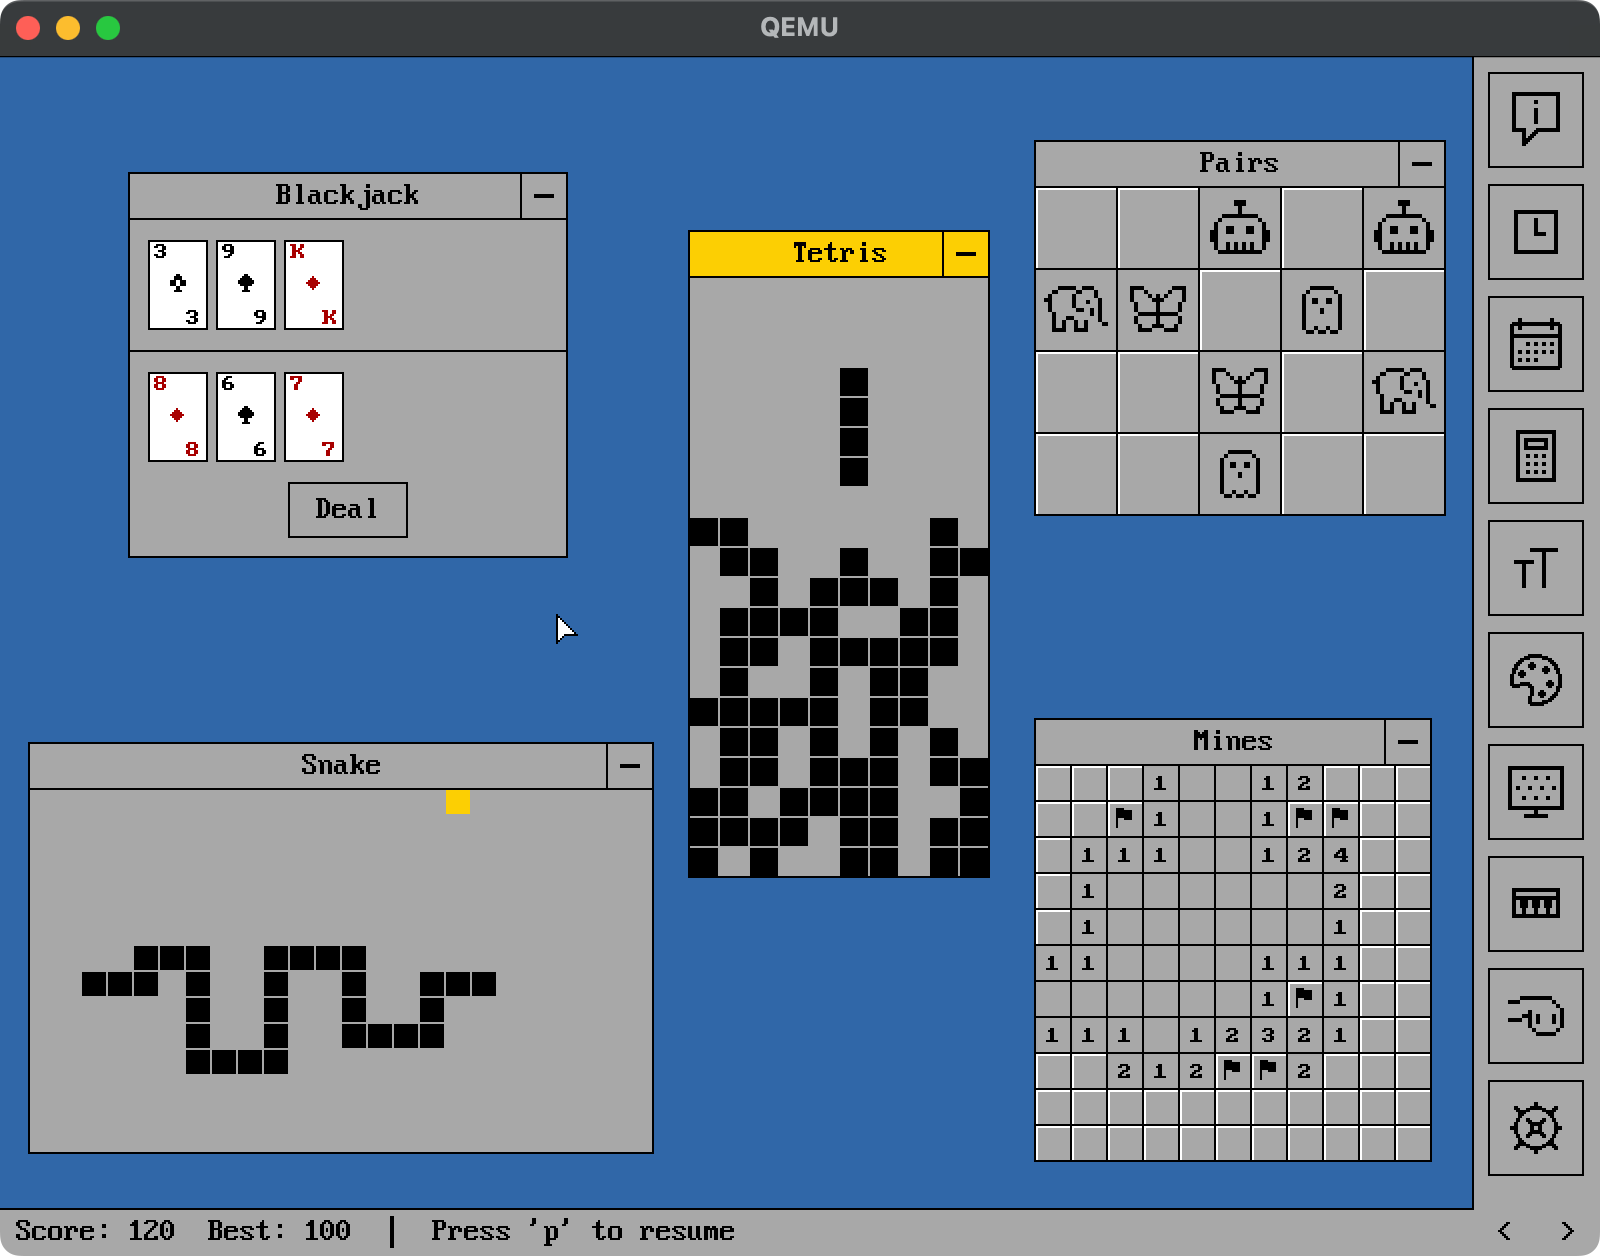
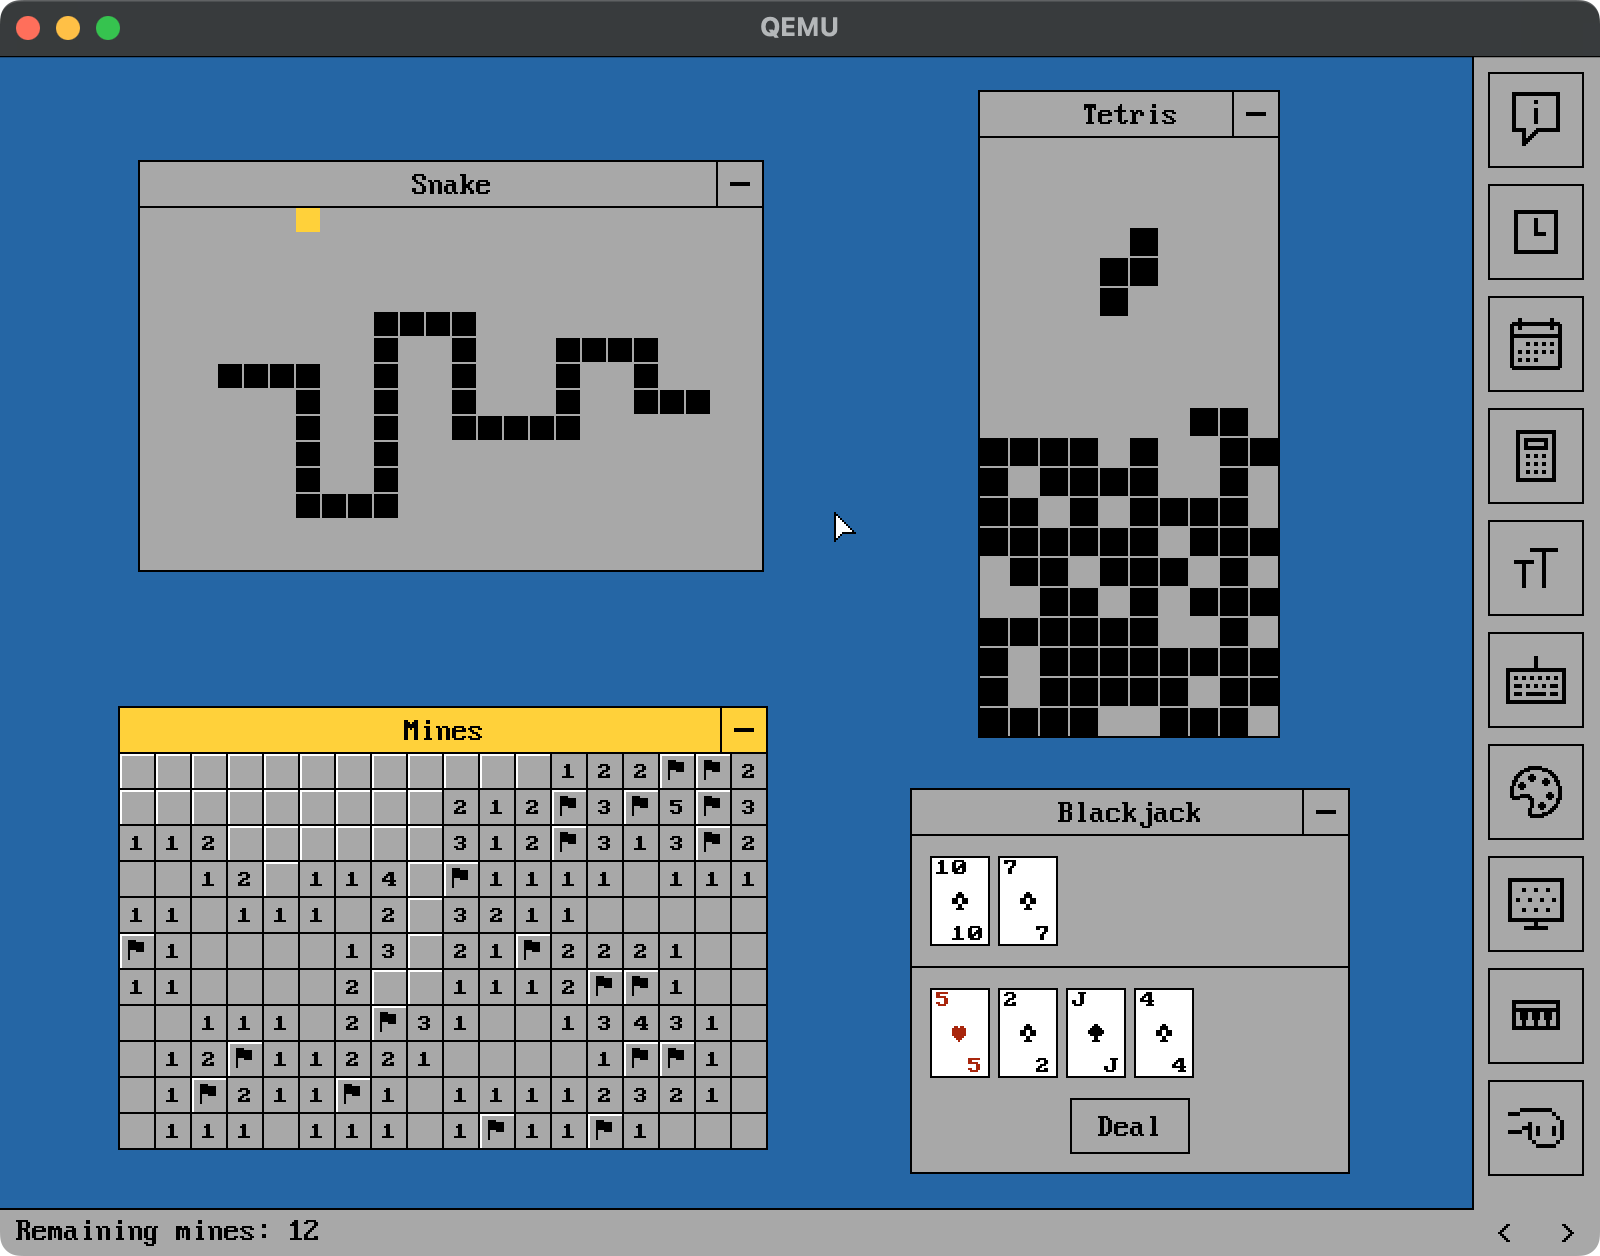
Doc: Update screenshots

diff --git a/README.md b/README.md
@@ -10,7 +10,7 @@ GentleOS/32 is a sibling of [GentleOS/16](https://github.com/luke8086/gentleos),
 a 16-bit OS that targets even older hardware.
 
 <img src="doc/qemu-01.png" width="320"> <img src="doc/qemu-02.png" width="320">
-<img src="doc/qemu-03.png" width="320">
+<img src="doc/qemu-03.png" width="320"> <img src="doc/qemu-04.png" width="320">
 
 ## Building
 